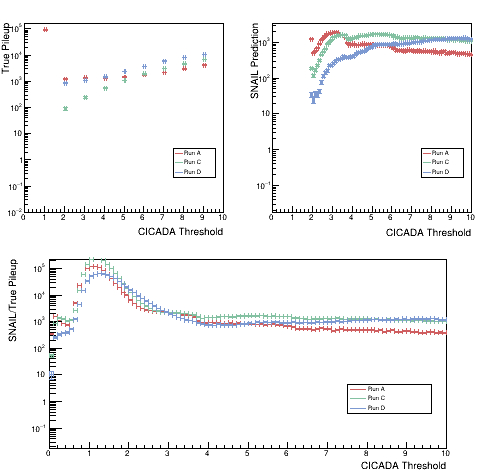
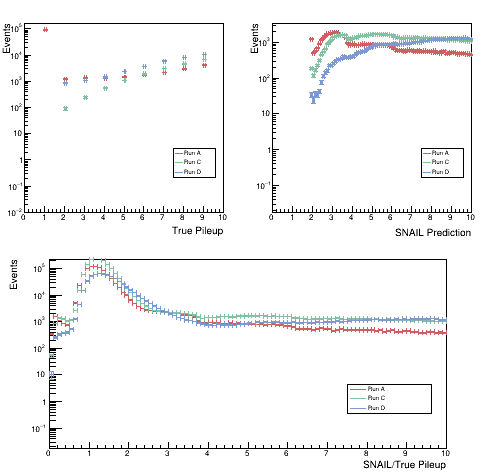
pileup plot changes

diff --git a/genScripts/histpileupFormat.py b/genScripts/histpileupFormat.py
@@ -93,8 +93,8 @@ for i in tqdm(range(3)):
     hist.SetMarkerStyle(8)
     hist.SetMarkerSize(0.2)
     hist.SetTitle("")
-    hist.GetYaxis().SetTitle("True Pileup")
-    hist.GetXaxis().SetTitle("CICADA Threshold")
+    hist.GetYaxis().SetTitle("Events")
+    hist.GetXaxis().SetTitle("True Pileup")
     hist.GetXaxis().SetTitleSize(0.045)
     hist.GetXaxis().SetTitleOffset(1.1)
     hist.GetYaxis().SetTitleSize(0.045)
@@ -116,8 +116,8 @@ for i in tqdm(range(3)):
     hist2.SetMarkerStyle(8)
     hist2.SetMarkerSize(0.2)
     hist2.SetTitle("")
-    hist2.GetYaxis().SetTitle("SNAIL Prediction")
-    hist2.GetXaxis().SetTitle("CICADA Threshold")
+    hist2.GetYaxis().SetTitle("Events")
+    hist2.GetXaxis().SetTitle("SNAIL Prediction")
     hist2.GetXaxis().SetTitleSize(0.045)
     hist2.GetXaxis().SetTitleOffset(1.2)
     hist2.GetYaxis().SetTitleSize(0.045)
@@ -138,8 +138,8 @@ for i in tqdm(range(3)):
     hist3.SetMarkerStyle(8)
     hist3.SetMarkerSize(0.2)
     hist3.SetTitle("")
-    hist3.GetYaxis().SetTitle("SNAIL/True Pileup")
-    hist3.GetXaxis().SetTitle("CICADA Threshold")
+    hist3.GetYaxis().SetTitle("Events")
+    hist3.GetXaxis().SetTitle("SNAIL/True Pileup")
     hist3.GetXaxis().SetTitleSize(0.045)
     hist3.GetXaxis().SetTitleOffset(1.0)
     hist3.GetYaxis().SetTitleSize(0.045)
